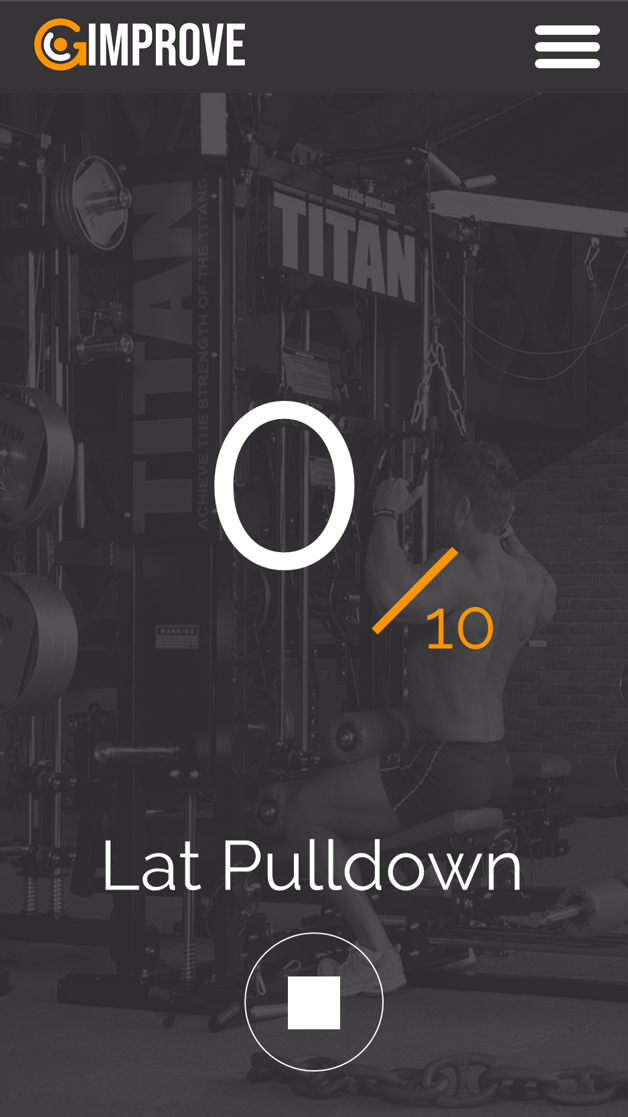
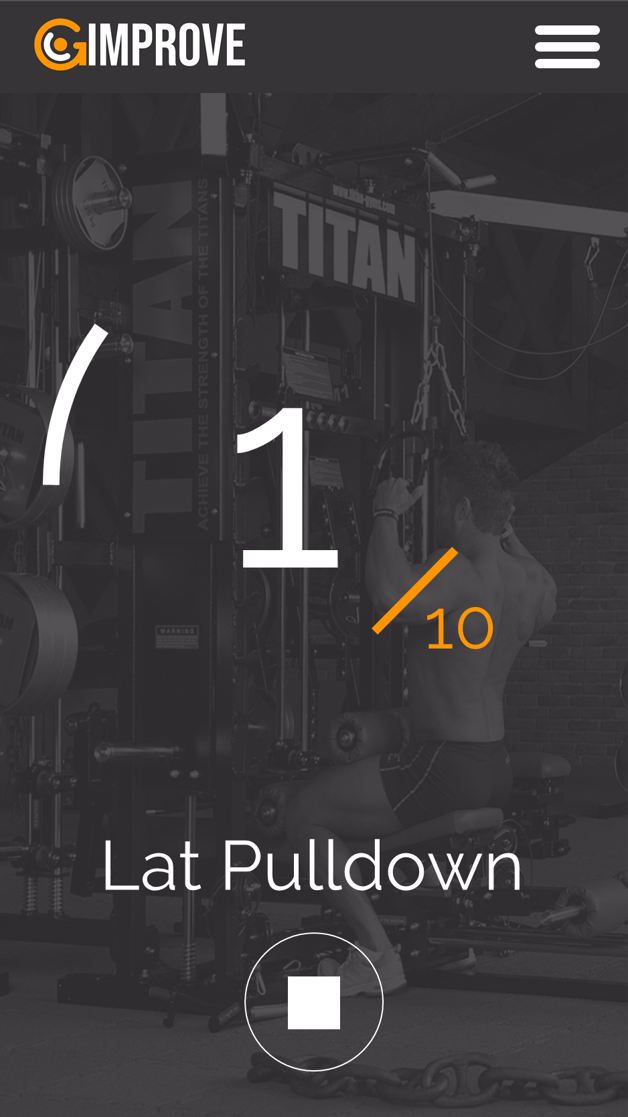
Mockup for 0 and 1 repetition works.

Changed region(s): [[0.3328, 0.3348, 0.5748, 0.5175], [0.0605, 0.2739, 0.1815, 0.4566]]

diff --git a/tracker/static/tracker/js/app_mockup/main.js b/tracker/static/tracker/js/app_mockup/main.js
@@ -6,23 +6,40 @@ $(document).ready(function () {
 
     var i = 1;
     // TODO: change when deploying to heroku
-    // var link_set_detail = 'https://app-smartgym.herokuapp.com/tracker/set_detail_rest/a8c1c41ace8246e282e0a6788ce51c48';
+    //var link_set_detail = 'https://app-smartgym.herokuapp.com/tracker/set_detail_rest/';
+    // var link_userprofile_detail = 'https://app-smartgym.herokuapp.com/tracker/userprofile_detail_rest/';
     var link_set_detail = 'http://127.0.0.1:8000/tracker/set_detail_rest/';
+    var link_userprofile_detail = 'http://127.0.0.1:8000/tracker/userprofile_detail_rest/';
+    link_userprofile_detail = link_userprofile_detail + user_id;
+    var active = false;
 
     function loop() {
         setTimeout(function () {
+            console.log(link_userprofile_detail)
             // check whether there is an active set. If so, show set data.
-                //get data and update
-                $.ajax({
-                    type: 'GET',
-                    url: link_set_detail,
-                    success: function(response_set) {
-                        var s = "./img/mockup_" + response_set.repetitions + ".png";
-                        console.log(s);
-                        $('#mockup-img').attr("src", s);
-                    }
-                });
+            $.ajax({
+                type: 'GET',
+                url: link_userprofile_detail,
+                success: function(response_set) {
+                    console.log(response_set)
+                        // if active set, get data and update
+                       console.log(link_set_detail + response_set._pr_active_set)
+                        $.ajax({
+                            type: 'GET',
+
+                            url: link_set_detail + response_set._pr_active_set,
+                            success: function(response_set) {
+                                console.log(response_set.repetitions);
+                                var s = "/static/tracker/pictures/app_mockup/mockup_" + response_set.repetitions + ".png"
+                                $('#mockup-img').attr("src", s);
+                            }
+                        });
+
+                }
+            });
+
             i ++;
+
             if(true) {
                 loop();
             };

diff --git a/tracker/templates/tracker/User/AppMockup/index.html b/tracker/templates/tracker/User/AppMockup/index.html
@@ -9,23 +9,24 @@
         <title></title>
         <meta name="description" content="">
         <meta name="viewport" content="width=device-width, initial-scale=1">
-        <link rel="apple-touch-icon" href="apple-touch-icon.png">
 
-        <link rel="stylesheet" href="css/bootstrap.min.css">
-
-        <link rel="stylesheet" href="css/bootstrap-theme.min.css">
-        <link rel="stylesheet" href="css/main.css">
+        {% load static %}
+        <link rel="stylesheet" href="{% static 'tracker/css/User/app_mockup/main.css' %}">
 
         <script src="https://ajax.googleapis.com/ajax/libs/jquery/1.12.4/jquery.min.js"></script>
     </head>
     <body>
+        <script type="text/javascript">
+        var user_id = "{{ user_id }}"
+        </script>
 
       <div class="mockup">
-        <img id="mockup-img" src="tracker/static/pictures/app_mockup/mockup_1.png">
+        <img id="mockup-img" src="/static/tracker/pictures/app_mockup/mockup_0.png">
       </div>
 
       <script src="https://ajax.googleapis.com/ajax/libs/jquery/1.12.4/jquery.min.js"></script>
       <script src="https://maxcdn.bootstrapcdn.com/bootstrap/3.3.7/js/bootstrap.min.js"></script>
+
       {% load static %}
       <script src="{% static 'tracker/js/app_mockup/main.js' %}"></script>
     </body>

diff --git a/tracker/views/views.py b/tracker/views/views.py
@@ -162,7 +162,7 @@ class ActivityListView(LoginRequiredMixin, generic.ListView):
     """
     model = Activity
     context_object_name = 'activities'
-    template_name = '/templates/tracker/User/user_activitylist.html'
+    template_name = 'tracker/User/user_activitylist.html'
 
     def get_context_data(self, **kwargs):
         context = super().get_context_data(**kwargs)
@@ -176,7 +176,12 @@ class ActivityListView(LoginRequiredMixin, generic.ListView):
 class AppMockupView(LoginRequiredMixin, generic.ListView):
     model = UserProfile
     context_object_name = 'user_profile'
-    template_name = 'tracker/User/app_mockup/index.html'
+    template_name = 'tracker/User/AppMockup/index.html'
+
+    def get_context_data(self, **kwargs):
+        context = super().get_context_data(**kwargs)
+        context['user_id'] = self.request.user.id
+        return context
 
 
 @login_required
